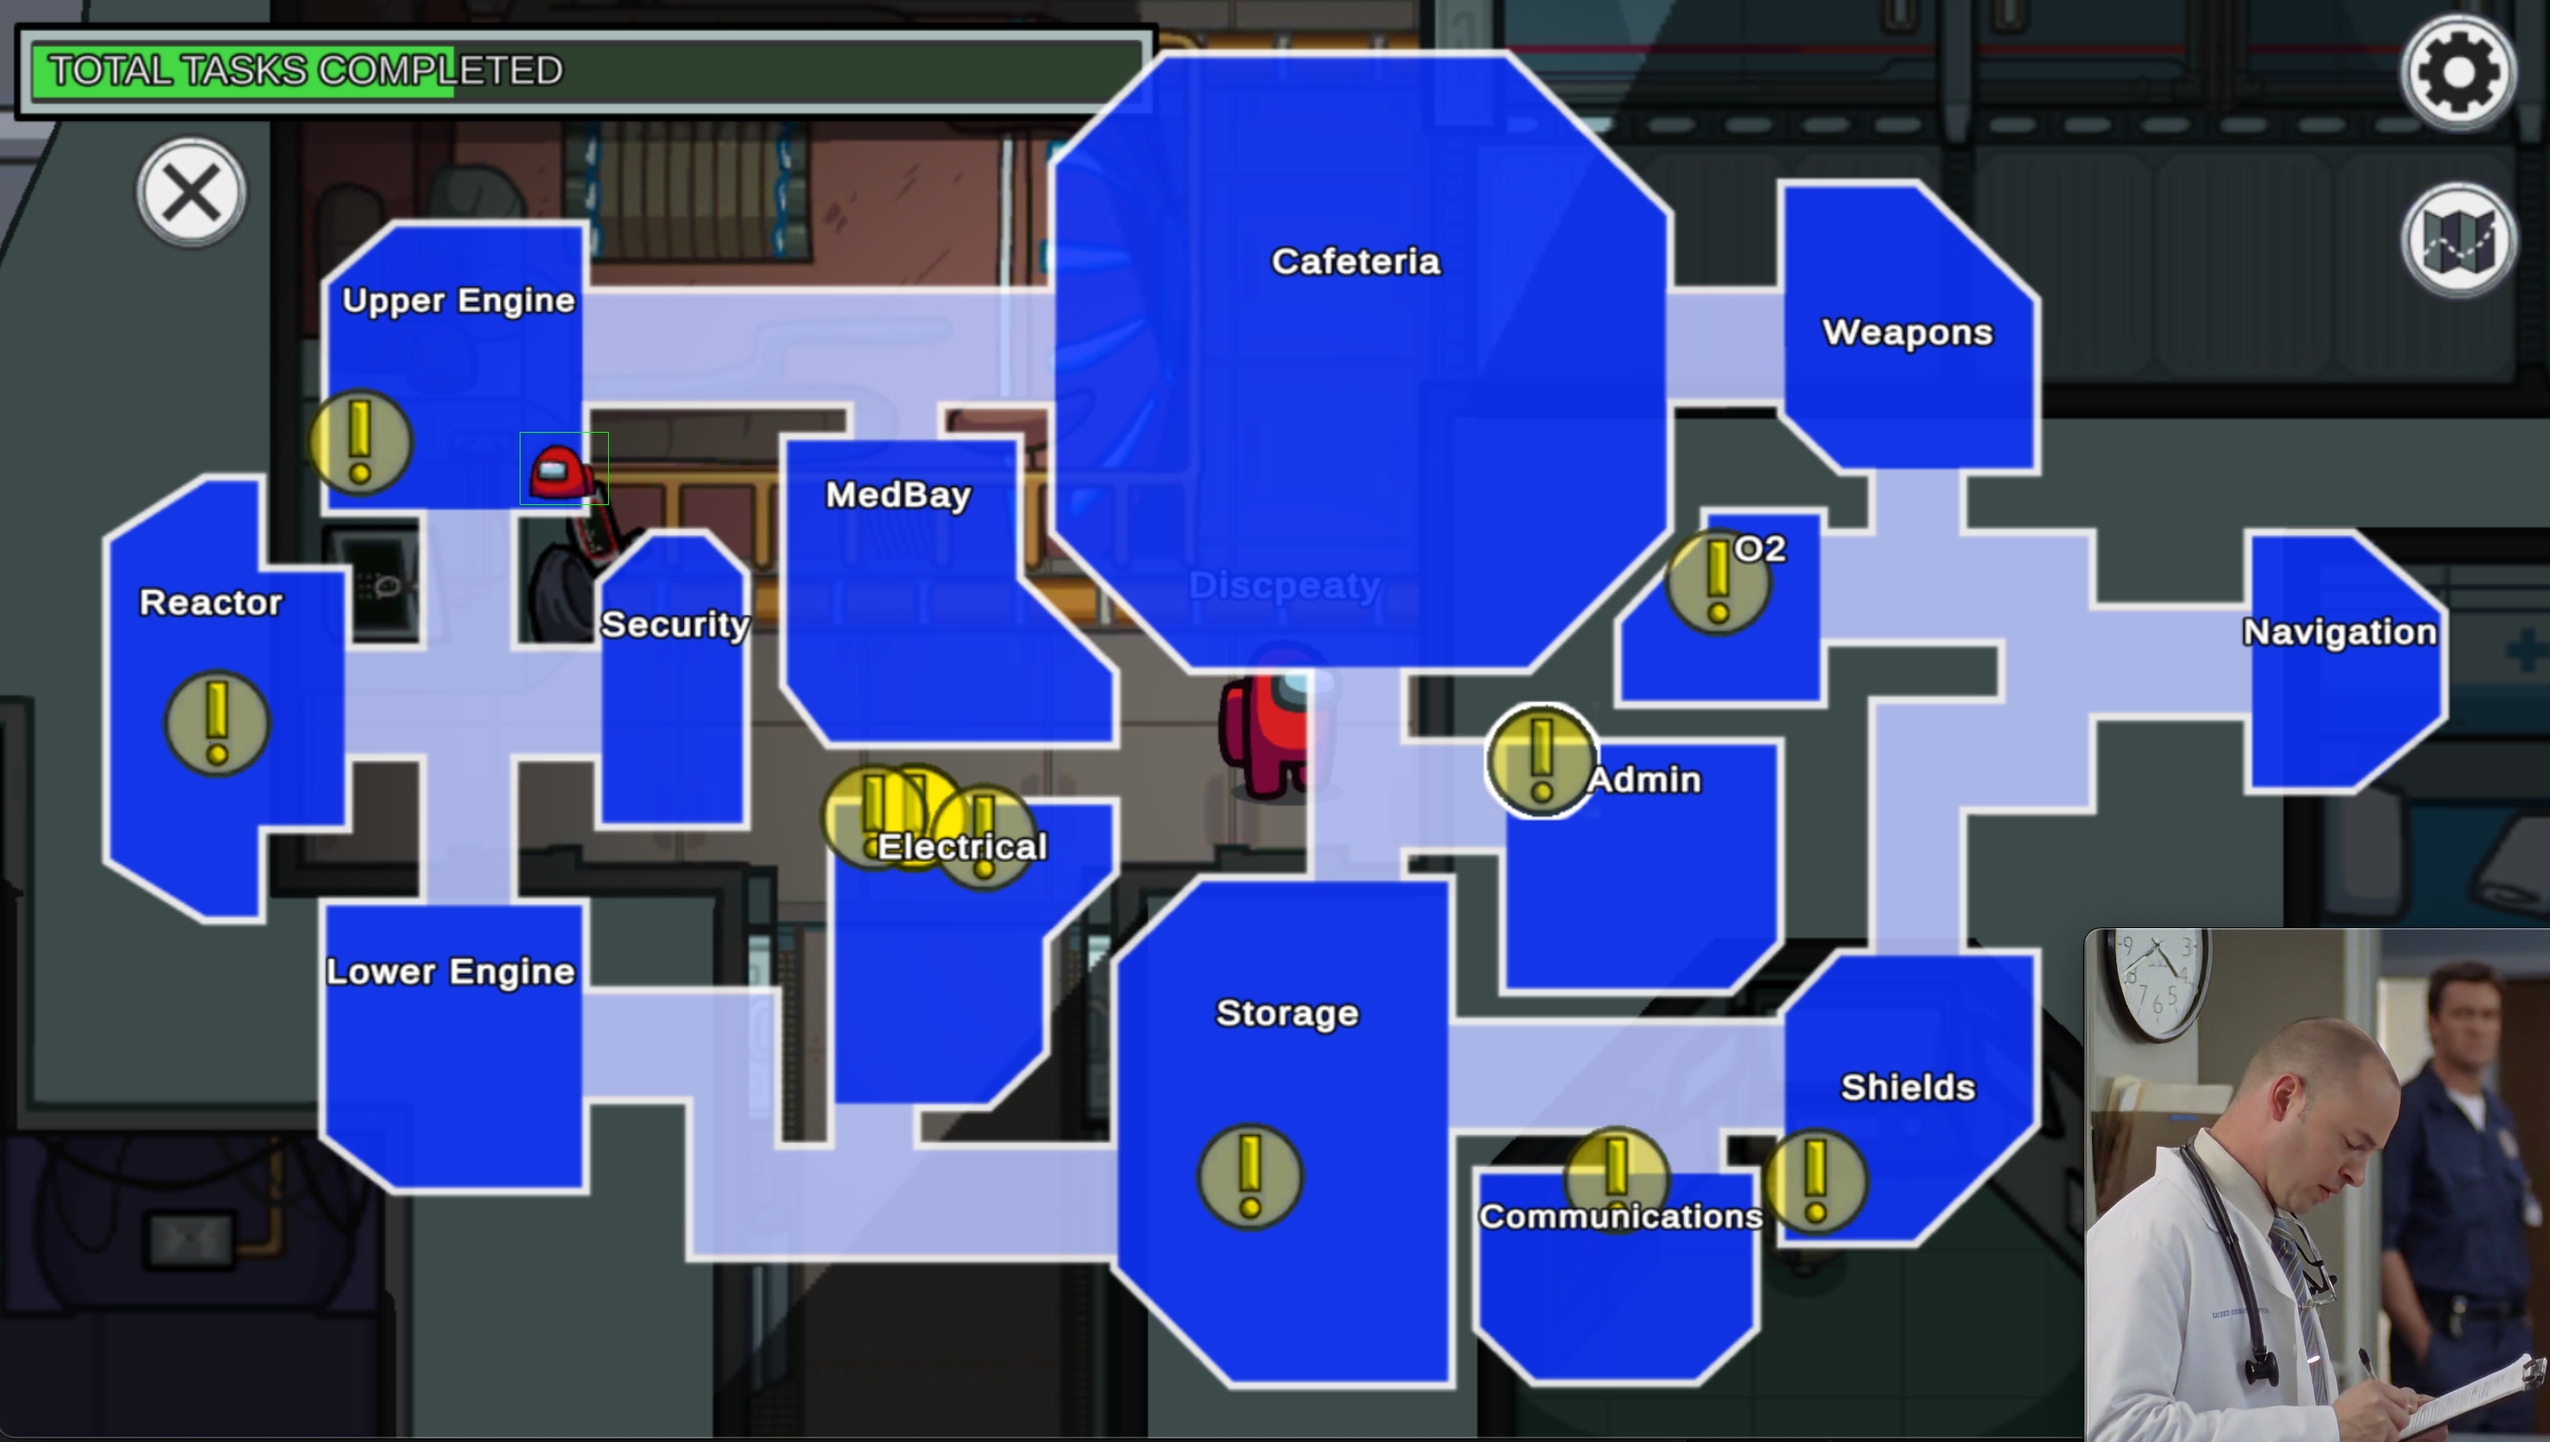
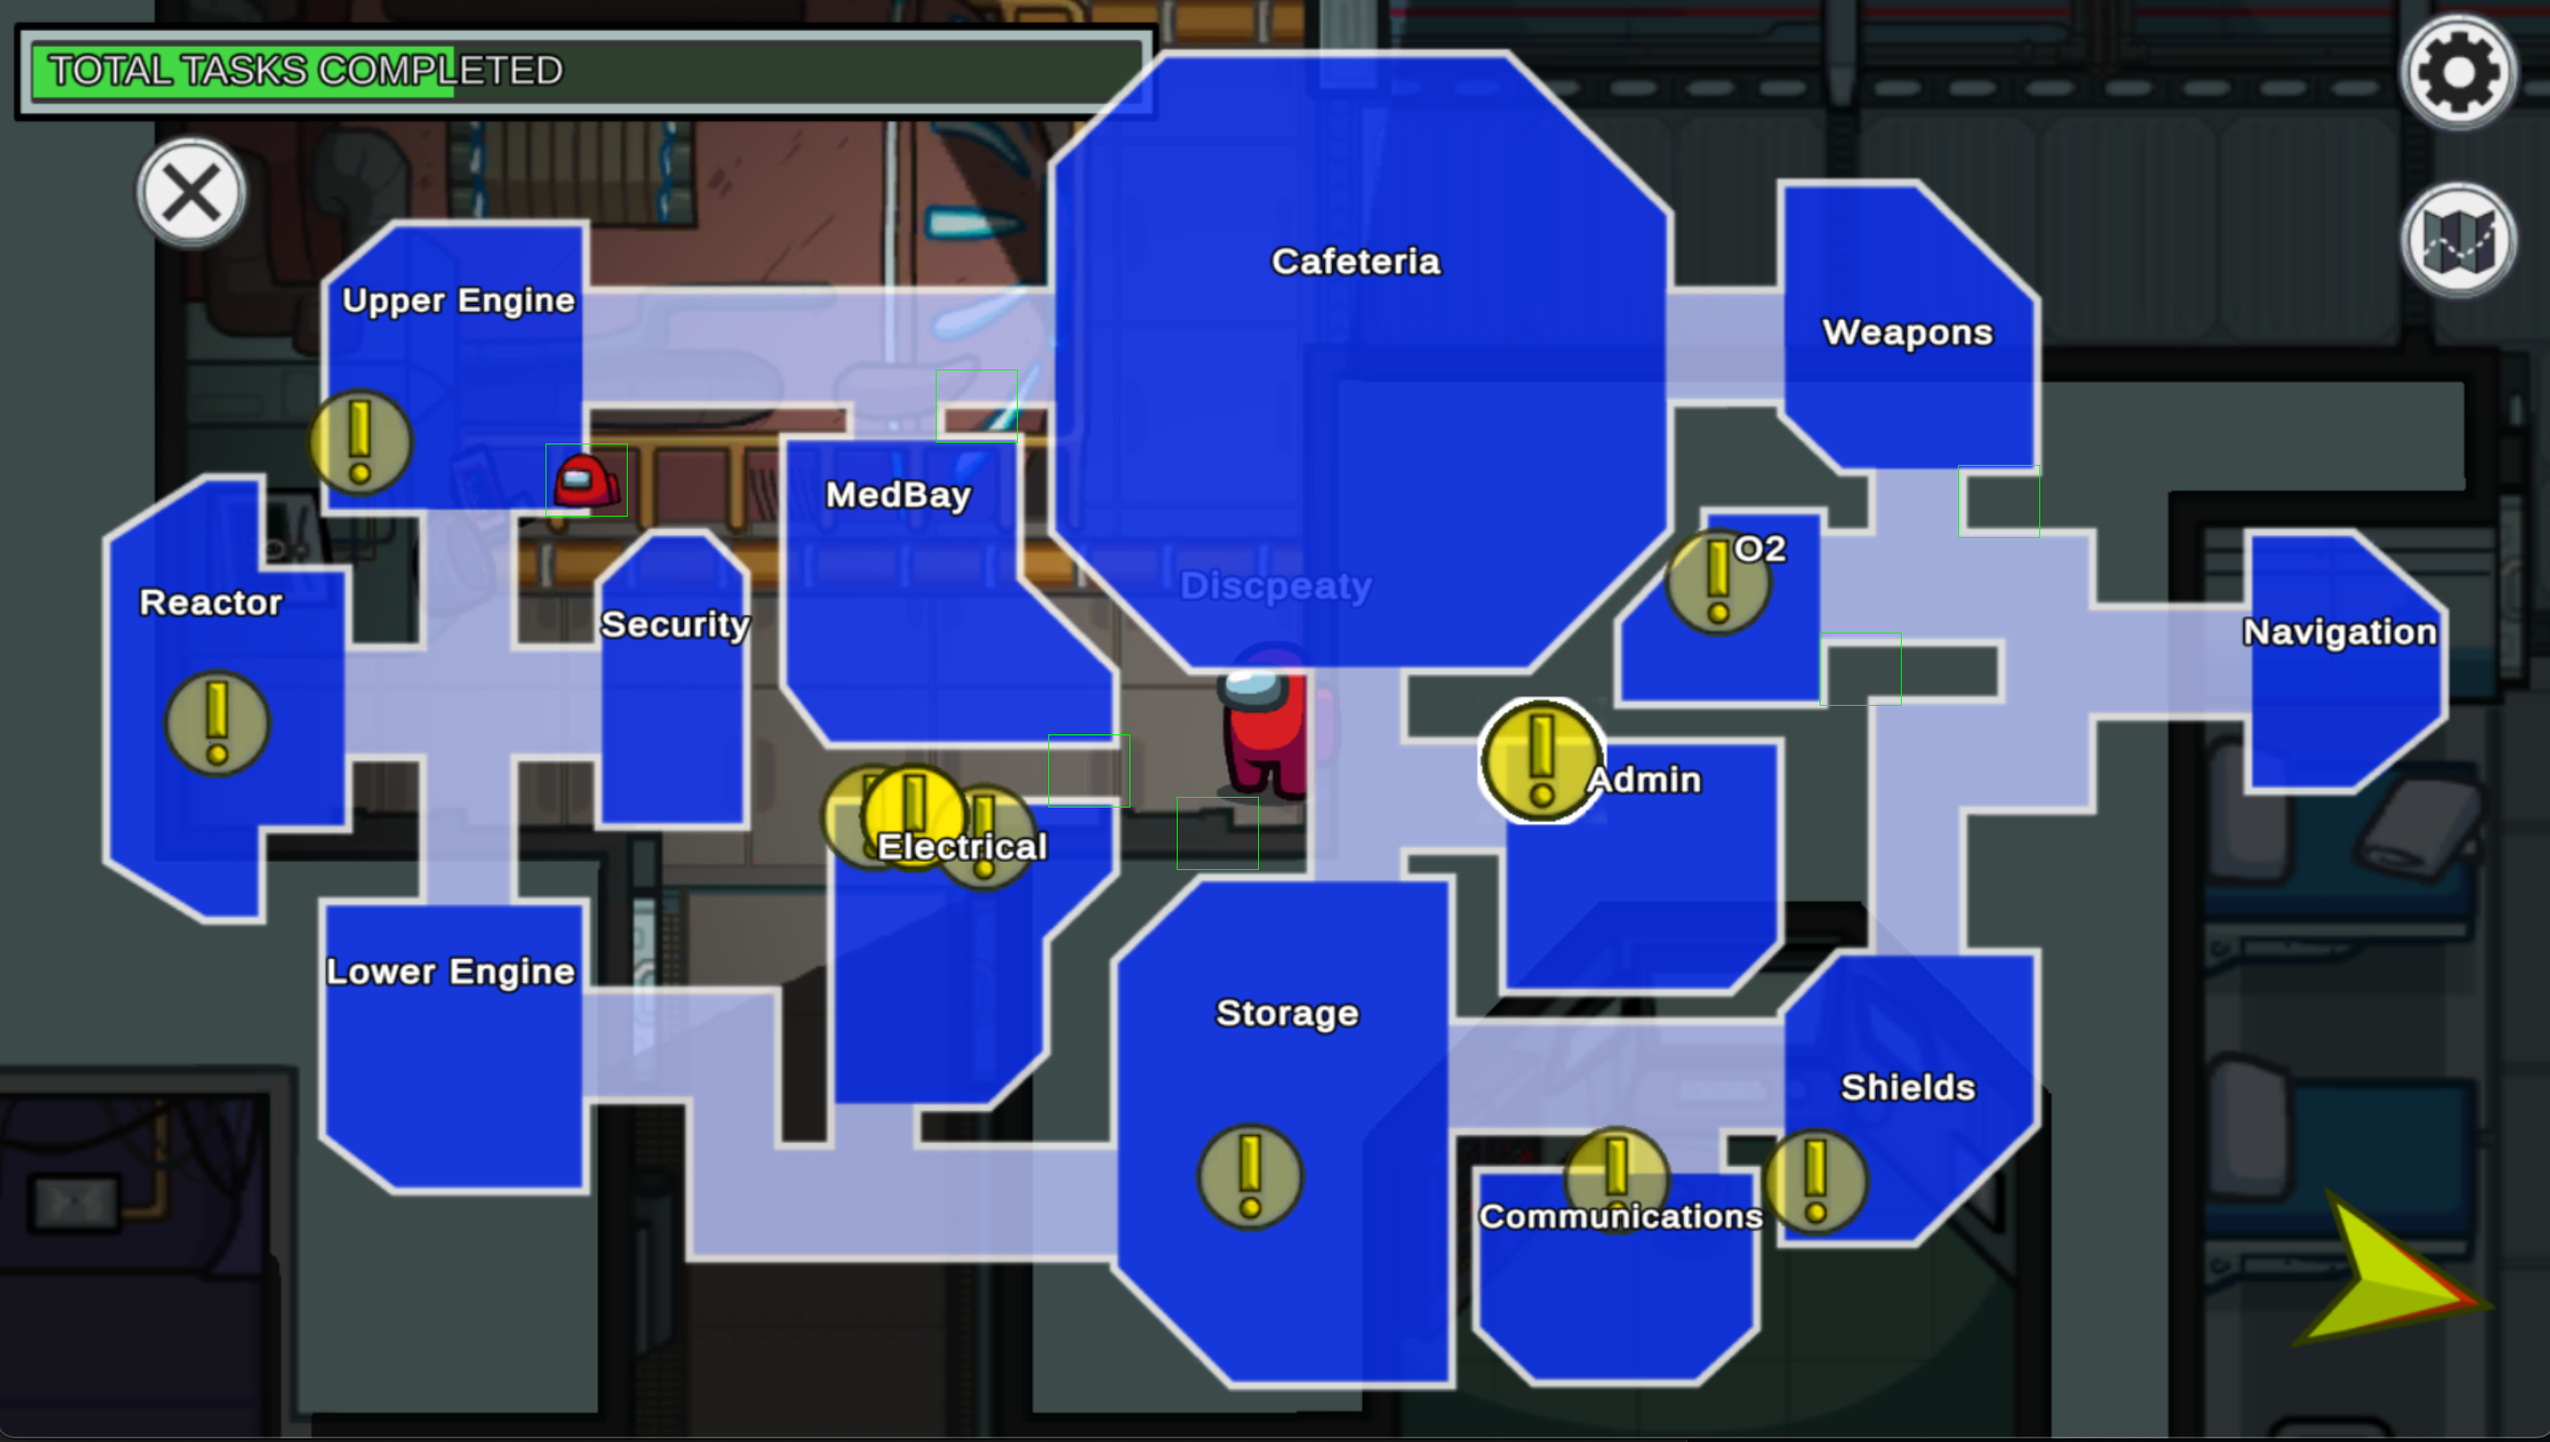
Fixes navigation bug

diff --git a/main.py b/main.py
@@ -57,6 +57,9 @@ def calculate_vector(current_location, target_location):
     print(neutral_vector[0])
     print(target_location[0])
     print(current_location[0])
+    print(type(neutral_vector[0]))
+    print(type(target_location[0]))
+    print(type(current_location[0]))
     vector_x = max(min(neutral_vector[0] + target_location[0] - current_location[0], 1195),595)
     vector_y = max(min(neutral_vector[1] + target_location[1] - current_location[1],881),281)
 
@@ -181,31 +184,42 @@ if __name__ == '__main__':
 
     # sleep(5)
     location_info  = ping_location()
+    print("Location Info is: " + str(location_info))
     current_location = location_info[0]
+    print("Now the location is: " + str(current_location))
     current_room = location_info[1]
     task = 1
     # # waypoints = [(1528, 502), (1846, 404), (2183, 428), (2158, 684), (2301, 682), (2301, 865), (2138, 870), (2141, 1179), (1612, 1210), (1563, 1050), (1298, 1152), (1283, 1350), (835, 1350), (835, 1172), (652, 1172), (611, 1052), (540, 1056), (537, 548), (630, 496), (653, 407), (1361, 402)]
     waypoints = navigate(current_room, task)
     for i in range(len(waypoints)):
         target_location = waypoints[i]
+        print("Am I the error three? " + str(type(target_location)) + " " + str(i))
         print("New Target for Waypoint #" + str(i) + " is: " + str(waypoints[i]) + " and we are at " + str(current_location))
         vector_x, vector_y, distance = calculate_vector(current_location, target_location)
         move(vector_x, vector_y, distance)
         if (i % 9) == 0:
             try:
-                current_location = ping_location()
+                location_info  = ping_location()
+                current_location = location_info[0]
+                current_room = location_info[1]
             except:
                 current_location = waypoints[i]
+                print("Am I the error too? " + str(type(current_location)))
         else:
             current_location = waypoints[i]
+            print("Am I the error? "+ str(type(current_location)))
     #
     #     while abs(current_location[0] - target_location[0]) > 50:
-    #         current_location = ping_location()
+    #         location_info  = ping_location()
+    #         current_location = location_info[0]
+    #         current_room = location_info[1]
     #         vector_x, vector_y, distance = calculate_vector(current_location, target_location)
     #         move(vector_x, vector_y, distance)
     #         print("Attempted rerouting: " + str(current_location) + " | " + str(target_location))
     #     while abs(current_location[1] - target_location[1]) > 50:
-    #         current_location = ping_location()
+    #         location_info  = ping_location()
+    #         current_location = location_info[0]
+    #         current_room = location_info[1]
     #         vector_x, vector_y, distance = calculate_vector(current_location, target_location)
     #         move(vector_x, vector_y, distance)
     #         print("Attempted rerouting: " + str(current_location) + " | " + str(target_location))
@@ -216,7 +230,9 @@ if __name__ == '__main__':
     # move(895, 800, 1.9)
     # move(896, 200, 3)
 
-    current_location = ping_location()
+    location_info = ping_location()
+    current_location = location_info[0]
+    current_room = location_info[1]
     get_a_room(current_location)
     # while True:
     #     print('The current pointer position is {0}'.format(
